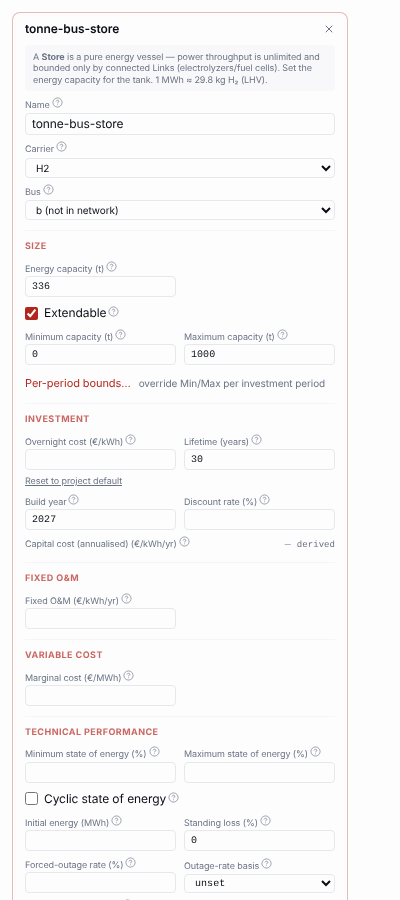
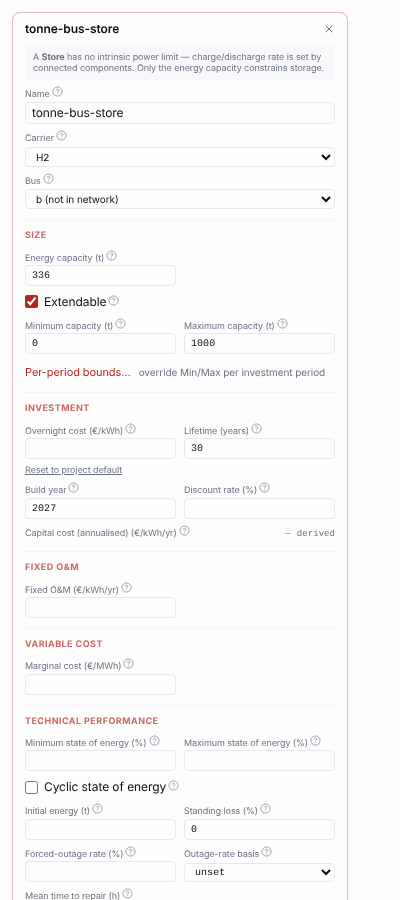
Drawer: initial energy and bounds follow the bus; hide the MWh help on tonne stores; log 05d (review UX)
Claude-Session: https://claude.ai/code/session_01G7qCuo2oBdbUMeczoREn3t

diff --git a/pypsa-gui/frontend/src/layout/PropertiesPanel.tonneUnits.test.tsx b/pypsa-gui/frontend/src/layout/PropertiesPanel.tonneUnits.test.tsx
@@ -92,10 +92,14 @@ async function mountStore() {
 
 describe('a hydrogen store', () => {
   it('on a tonne bus reads t and drops the MWh-based kg H₂ tail', async () => {
-    units.mockResolvedValue({ component: 'Store', name: 'tank', units: { e_nom: 't', e_nom_max: 't' } })
+    units.mockResolvedValue({ component: 'Store', name: 'tank', units: { e_nom: 't', e_nom_max: 't', e_initial: 't' } })
     await mountStore()
     expect(await screen.findByText(/336 t\b/)).toBeTruthy()
     expect(screen.queryByText(/kg H₂/)).toBeNull()
+    await userEvent.click(await screen.findByRole('button', { name: /edit/i }))
+    expect(await screen.findByText(/Energy capacity \(t\)/)).toBeTruthy()
+    expect(await screen.findByText(/Initial energy \(t\)/)).toBeTruthy()
+    expect(screen.queryByText(/29\.8 kg/)).toBeNull()
   })
 
   it('on an energy bus keeps MWh and the kg H₂ tail', async () => {

diff --git a/pypsa-gui/frontend/src/layout/PropertiesPanel.tsx b/pypsa-gui/frontend/src/layout/PropertiesPanel.tsx
@@ -599,7 +599,7 @@ export function StoreCard({ store, onRename, mode = 'card', title }: {
   return (
     <EditShell title={store.name} onSave={() => saveMut.mutate()} onCancel={() => setOpen(false)} saving={saveMut.isPending}>
       <div className="col-span-2 text-[9px] text-muted bg-border/20 rounded px-2 py-1.5 leading-tight">
-        {isH2Store
+        {isH2Store && fieldUnit(schema, 'e_nom', 'MWh') === 'MWh'
           ? <>A <strong>Store</strong> is a pure energy vessel — power throughput is unlimited and bounded only by connected Links (electrolyzers/fuel cells). Set the energy capacity for the tank. 1 MWh ≈ 29.8 kg H₂ (LHV).</>
           : <>A <strong>Store</strong> has no intrinsic power limit — charge/discharge rate is set by connected components. Only the energy capacity constrains storage.</>}
       </div>

diff --git a/pypsa-gui/backend/services/asset_schema/fields.py b/pypsa-gui/backend/services/asset_schema/fields.py
@@ -685,7 +685,7 @@ _SIZE_BUS = {"Generator": "bus", "StorageUnit": "bus", "Store": "bus", "Load": "
 
 
 def size_units(n, component: str, name: str) -> dict[str, str]:
-    """Per-asset display units for the size fields that differ from the class-level MW / MWh: t/h (t for a
+    """Per-asset display units for the quantity fields (size, initial energy, bounds) that differ from the class-level MW / MWh: t/h (t for a
     stock) on a tonne bus, as `flow_service._size_unit` reads the bus. Empty on an energy bus, an unreadable
     bus or a class with no bus size."""
     from services.flow_service import _size_unit
@@ -696,7 +696,7 @@ def size_units(n, component: str, name: str) -> dict[str, str]:
         return {}
     out: dict[str, str] = {}
     for f in fields_for(component):
-        if f.group != "size" or f.unit_display not in ("MW", "MWh"):
+        if f.unit_display not in ("MW", "MWh"):
             continue
         unit = _size_unit(n, table.at[name, col], stock=f.unit_display == "MWh")
         if unit in ("t", "t/h"):

diff --git a/pypsa-gui/backend/tests/test_asset_schema_units.py b/pypsa-gui/backend/tests/test_asset_schema_units.py
@@ -38,7 +38,7 @@ def test_a_store_on_a_tonne_bus_shows_t(n):
     for name in n.stores.index:
         if _size_unit(n, n.stores.at[name, "bus"], stock=True) == "t":
             u = size_units(n, "Store", name)
-            assert u["e_nom"] == "t" and u["e_nom_max"] == "t"
+            assert u["e_nom"] == "t" and u["e_nom_max"] == "t" and u["e_initial"] == "t"
             return
     pytest.skip("no store on a tonne bus")
 

diff --git a/.scratch/ui-modern/issues/05d-cost-units-on-tonne-assets.md b/.scratch/ui-modern/issues/05d-cost-units-on-tonne-assets.md
@@ -1,0 +1,16 @@
+<!-- SPDX-FileCopyrightText: Contributors to PyPSA-Eur <https://github.com/pypsa/pypsa-eur> -->
+<!-- SPDX-License-Identifier: CC-BY-4.0 -->
+
+# The edit drawer's cost units on tonne assets
+
+Status: needs-triage
+Blocked by: 05c (PR #1448).
+Gated: GK B, UX.
+Type: bug
+
+Follow-up to 05c (UX review of #1448). 05c makes the drawer's quantity fields (capacity, bounds, initial energy) follow the bus unit: t/h and t on a tonne bus. The cost fields still read per-energy units on an asset on a tonne bus: €/kWh, €/kWh/yr and €/MWh (overnight cost, fixed O&M, marginal cost, and the Store's per-energy costs). Their unit and scale (`display = stored × scale`) should follow the bus too (€/t, €/t/yr, €/(t/h)), without changing stored values.
+
+## Done when
+
+- A cost field on an asset on a tonne bus shows a per-tonne unit; an energy-bus asset is unchanged.
+- A test pins one of each on `eh_concentrator_staged`; the scale for a tonne bus is decided first (no kWh scale applies).
